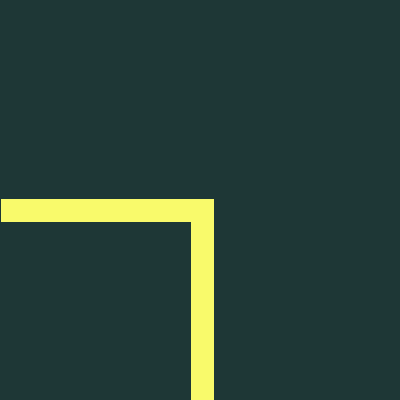
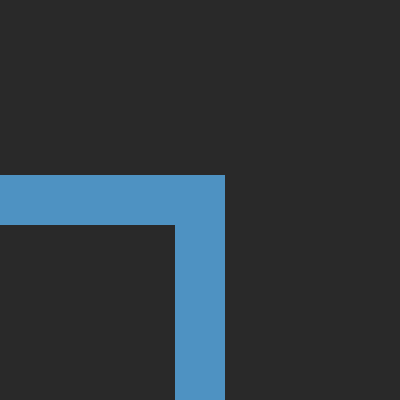
Added new sprites and some more render logic

Changed region(s): [[0.0, 0.42, 0.57, 1.0]]

diff --git a/root/resources/scripts/tiles.js b/root/resources/scripts/tiles.js
@@ -5,13 +5,13 @@ let tiles = [
     id : 'A',
     count: 2,
     type: ['chapel', 'road'],
-    connections: { North : null, East : null, South : 'road', West : null}
+    connections: { North : 'field', East : 'field', South : 'road', West : 'field'}
 },
 {
     id : 'B',
     count: 4,
     type: ['chapel'],
-    connections: { North : null, East : null, South : null, West : null}
+    connections: { North : 'field', East : 'field', South : 'field', West : 'field'}
 },
 {
     id : 'C',
@@ -24,48 +24,139 @@ let tiles = [
     id : 'D',
     count: 4, // Includes starting square
     types: ['cityedge', 'road'],
-    connections: { North : 'road', East : 'cityedge', South : 'road', West : null}
+    connections: { North : 'road', East : 'cityedge', South : 'road', West : 'field'}
 },
 {
     id : 'E',
     count: 5, 
     types: ['cityedge'],
-    connections: { North : 'cityedge', East : null, South : null, West : null}
+    connections: { North : 'cityedge', East : 'field', South : 'field', West : 'field'}
 },
 {
     id : 'F',
     count: 2,
     types: ['citycenter'],
     shield: true,
-    connections: { North : null, East : 'citycenter', South : null, West : 'citycenter'}
+    connections: { North : 'field', East : 'citycenter', South : 'field', West : 'citycenter'}
 },
 {
     id : 'G',
     count: 1,
     types: ['citycenter'],
-    connections: { North : 'citycenter', East : null, South : null, West : 'citycenter'}
+    connections: { North : 'citycenter', East : 'field', South : 'field', West : 'citycenter'}
 },
 {
     id : 'H',
     count: 3,
     types: ['cityedge'],
-    connections: { North : 'cityedge', East : null, South : null, West : 'cityedge'}
+    connections: { North : 'cityedge', East : 'field', South : 'field', West : 'cityedge'}
 },
 {
     id : 'I',
     count: 2,
     types: ['citycenter'],
-    connections: { North : 'citycenter', East : null, South : null, West : 'citycenter'}
+    connections: { North : 'citycenter', East : 'field', South : 'field', West : 'citycenter'}
 },
 {
     id : 'J',
     count: 3,
     types: ['cityedge', 'road'],
-    connections: { North : 'cityedge', East : 'road', South : 'road', West : null}
+    connections: { North : 'cityedge', East : 'road', South : 'road', West : 'field'}
 },
 {
     id : 'K',
     count: 3,
     types: ['cityedge', 'road'],
-    connections: { North : 'road', East : 'cityedge', South : null , West : 'road'}
-}]
+    connections: { North : 'road', East : 'cityedge', South : 'field' , West : 'road'}
+},
+{
+    id : 'L',
+    count: 3,
+    types: ['cityedge', 'road'],
+    connections: { North : 'road', East : 'cityedge', South : 'road' , West : 'road'}
+},
+{
+    id : 'M',
+    count: 2,
+    shield:true,
+    types: ['city'],
+    connections: { North : 'city', East : 'field', South : 'field' , West : 'city'}
+},
+{
+    id : 'N',
+    count: 3,
+    shield:false,
+    types: ['city'],
+    connections: { North : 'city', East : 'field', South : 'field' , West : 'city'}
+},
+{
+    id : 'O',
+    count: 2,
+    shield : true,
+    types: ['city', 'road'],
+    connections: { North : 'city', East : 'road', South : 'road' , West : 'city'}
+},
+{
+    id : 'P',
+    count: 3,
+    shield : false,
+    types: ['city', 'road'],
+    connections: { North : 'city', East : 'road', South : 'road' , West : 'city'}
+},
+{
+    id : 'Q',
+    count: 1,
+    shield : true,
+    types: ['city'],
+    connections: { North : 'city', East : 'city', South : 'field' , West : 'city'}
+},
+{
+    id : 'R',
+    count: 3,
+    shield : false,
+    types: ['city'],
+    connections: { North : 'city', East : 'city', South : 'field' , West : 'city'}
+},
+{
+    id : 'S',
+    count: 2,
+    shield : true,
+    types: ['city', 'road'],
+    connections: { North : 'city', East : 'city', South : 'road' , West : 'city'}
+},
+{
+    id : 'T',
+    count: 1,
+    shield : false,
+    types: ['city', 'road'],
+    connections: { North : 'city', East : 'city', South : 'road' , West : 'city'}
+},
+{
+    id : 'U',
+    count: 8,
+    shield : false,
+    types: ['road'],
+    connections: { North : 'road', East : 'field', South : 'road' , West : 'field'}
+},
+{
+    id : 'V',
+    count: 9,
+    shield : false,
+    types: ['road'],
+    connections: { North : 'field', East : 'field', South : 'road' , West : 'road'}
+},
+{
+    id : 'W',
+    count: 4,
+    shield : false,
+    types: ['road'],
+    connections: { North : 'field', East : 'field', South : 'road' , West : 'field'}
+},
+{
+    id : 'X',
+    count: 1,
+    shield : false,
+    types: ['road'],
+    connections: { North : 'field', East : 'field', South : 'road' , West : 'road'}
+}
+]

diff --git a/root/resources/scripts/grid.js b/root/resources/scripts/grid.js
@@ -13,10 +13,7 @@ class Grid {
             arr[i] = [];
 
             for(let j = 0; j < h; j++){
-                //let index = this.getRandom(0, tiles.length);
-                //let tile = tiles[index];
-                //arr[i][j] = tile.id;
-                arr[i][j] = '0';                
+                arr[i][j] = {value: '0', placed : false};                
             }
         }   
 
@@ -31,9 +28,10 @@ class Grid {
         if(x >= this.width || y >= this.width || x < 0 || y < 0)
             return;
 
-        // if(this.matrix[x][y] != '0' && this.matrix[x][y] != '+')
-        //     return;
-
+        let tile = this.matrix[x][y];
+        if(tile.placed) {
+            return;
+        }
         this.matrix[x][y] = value;
     }
 
@@ -44,20 +42,42 @@ class Grid {
     render(s){
         for (let i = 0; i < this.width; i++) {
             for(let j = 0; j < this.height; j++){
-                let v = this.getValue(i,j);
-                if(v === '+'){
-                    fill(40,230,70);        
-                    rect(i*s, j*s, s,s);          
+
+                let tile = this.getValue(i,j);
+                let v = tile.value;
+
+                if(tile.placed)
+                    continue;
+
+                push();
+
+                translate(i*s+s/2, j*s+s/2);
+               
+              
+
+                if(tile.placed){
+                    if(tile.rotation)
+                        rotate(rotation);
+                    image(tileImages[v], 0, 0, s,s); 
+                }else {
+
+                    if(v === '+'){
+                        fill(40,230,70);        
+                        rect(0, 0, s,s);          
+                    }
+                    else if(v === '0') {
+                        fill(75);
+                        rect(0, 0, s,s); 
+                    }
+                    else {
+                        if(rotation != 0)
+                            rotate(rotation);
+                        image(tileImages[v],0, 0, s,s);  
+                    }
+                         
                 }
-                else if(v === '0') {
-                    fill(75);
-                    rect(i*s, j*s, s,s); 
-                }
-                else
-                    image(tileImages[v], i*s, j*s, s,s);    
-                    
-                    
                 
+                pop();
             }
         }   
     }

diff --git a/root/resources/scripts/sketch.js b/root/resources/scripts/sketch.js
@@ -1,10 +1,14 @@
 let tileImages = new Object();
 let grid;
-let size = 50;
+let size = 100;
 let canvasWidth = 1200;
 let canvasHeight = 900;
 
-let currentTile = {x:0,y:0};
+let rotation = 0;
+
+let completed = 0;
+
+let currentTilePos = {x:0,y:0};
 let tile = getRandomTile();
 
 function preload() {
@@ -13,6 +17,8 @@ function preload() {
 }
 
 function setup() {
+    rectMode(CENTER);
+    imageMode(CENTER);
     let canvas = createCanvas(canvasWidth+2,canvasHeight+2);
     canvas.parent('sketch-holder');
     
@@ -24,8 +30,9 @@ function setup() {
   
 
 function draw() {
+
     //renderTiles(); 
-    renderGrid();   
+    grid.render(size);
 }
 
 
@@ -50,10 +57,6 @@ function loadTilesImages(){
     }); 
 }
 
-function renderGrid() {
-    grid.render(size);
-}
-
 function renderTiles() {
     let currentX = 0;
     let currentY = 0;
@@ -69,14 +72,13 @@ function renderTiles() {
         }
     });
 
-}
-  
+}  
 
 function mouseClicked() { 
     if(mouseX > width || mouseX < 0 || mouseY > height || mouseY < 0)
         return;
         
-    grid.setValue(currentTile.x, currentTile.y, tile.id);
+    grid.setValue(currentTilePos.x, currentTilePos.y, {value: tile.id, placed : true, rotation : rotation});
     tile = getRandomTile();
 }
 
@@ -87,14 +89,24 @@ function mouseMoved() {
     let x = Math.floor(mouseX / size);
     let y = Math.floor(mouseY / size);
 
-    if(currentTile.x != x || currentTile.y != y){
+    if(currentTilePos.x != x || currentTilePos.y != y){
         // Current tile is another one
-        grid.setValue(currentTile.x, currentTile.y, '0');
+        grid.setValue(currentTilePos.x, currentTilePos.y, {value :'0', placed : false});
     }
     else {
-        grid.setValue(x,y, tile.id);
+        grid.setValue(x,y, {value : tile.id, placed : false});
     }
 
-    currentTile = {x : x, y : y};   
+    currentTilePos = {x : x, y : y};   
+}
+
+function keyTyped(){
+    if (key === 'a') {
+       rotation -= TWO_PI/4;
+      } else if (key === 'd') {
+        rotation += TWO_PI/4;
+      }
+
+      console.log(rotation);
 }
 
